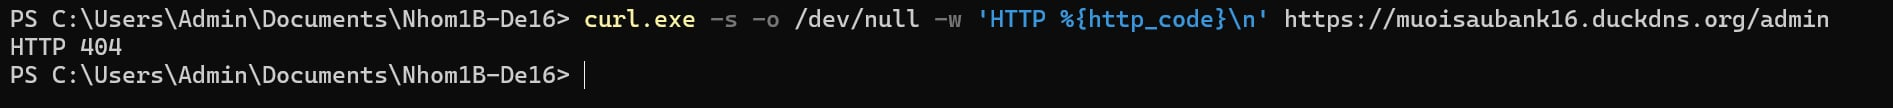
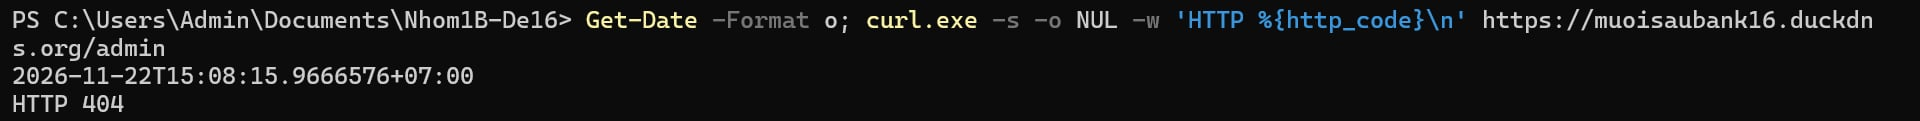
SV2: sua dau vao bang kiem thu va chup lai anh KT2

Changed region(s): [[0.0, 0.0556, 0.9974, 0.2778], [0.0, 0.5278, 0.3117, 0.9444], [0.0, 0.3333, 0.0935, 0.5278]]

diff --git a/kiem-thu/BANG-KIEM-THU-SV2.md b/kiem-thu/BANG-KIEM-THU-SV2.md
@@ -2,13 +2,14 @@
 
 | Đầu vào | Thao tác thực hiện | Kết quả mong đợi | Kết quả thực tế | Đánh giá (Đạt / Chưa đạt) | Bằng chứng xác thực |
 | :--- | :--- | :--- | :--- | :--- | :--- |
-| ps0 | Ping/kết nối tới ps2 | Timed out | Connection timed out | Đạt | kiem-thu/bang-chung/KT2/KT2-vps0-chan-vps2.png |
-| ps0 | Ping/kết nối tới ps3 | Timed out | Timed out | Đạt | kiem-thu/bang-chung/KT2/KT2-vps0-chan-vps3.png |
-| ps1 | Ping/kết nối tới ps3 | Timed out | Timed out | Đạt | kiem-thu/bang-chung/KT2/KT2-vps1-chan-vps3.png |
-| ps2 | Kết nối cơ sở dữ liệu ps3 | Succeeded | Connection succeeded | Đạt | kiem-thu/bang-chung/KT2/KT2-vps2-vao-vps3.png |
-| Trình duyệt | Truy cập trang chủ HTTPS | HTTP 200 | HTTP 200 | Đạt | kiem-thu/bang-chung/KT2/KT2-https-home.png |
-| Trình duyệt | Truy cập đường dẫn /admin | HTTP 404 | HTTP 404 | Đạt | kiem-thu/bang-chung/KT2/KT2-admin-404.png |
-| Trình duyệt | Gửi payload SQL Injection | HTTP 403 | HTTP 403 (WAF Blocked) | Đạt | kiem-thu/bang-chung/KT2/KT2-waf-sqli.png |
-| Trình duyệt | Đăng nhập sai thông tin | HTTP 401 | HTTP 401 (Unauthorized) | Đạt | kiem-thu/bang-chung/KT2/KT2-login-401.png |
-| Trình duyệt | Gửi request liên tục (Rate Limit) | HTTP 429 | HTTP 429 (Too Many Requests) | Đạt | kiem-thu/bang-chung/KT2/KT2-ratelimit-429.png |
-| Trình duyệt | Kiểm tra giao diện & ổ khóa HTTPS | Hiển thị OK | Hiển thị OK, có ổ khóa | Đạt | kiem-thu/bang-chung/KT2/KT2-browser-ui.png |
+| vps0 | curl -m 3 http://10.10.10.20:8080/api/health (vps0 gọi thẳng API vps2) | Timed out | Connection timed out after 3001 milliseconds | Đạt | kiem-thu/bang-chung/KT2/KT2-vps0-chan-vps2.png |
+| vps0 | nc -zv -w 3 10.10.10.30 5432 (vps0 tới CSDL vps3) | Timed out | Timed out | Đạt | kiem-thu/bang-chung/KT2/KT2-vps0-chan-vps3.png |
+| vps1 | nc -zv -w 3 10.10.10.30 5432 (vps1 tới CSDL vps3) | Timed out | Timed out | Đạt | kiem-thu/bang-chung/KT2/KT2-vps1-chan-vps3.png |
+| vps2 | nc -zv -w 3 10.10.10.30 5432 (vps2 tới CSDL vps3, đối chứng) | Succeeded | Connection succeeded | Đạt | kiem-thu/bang-chung/KT2/KT2-vps2-vao-vps3.png |
+| Máy cá nhân, curl.exe | Truy cập trang chủ https://muoisaubank16.duckdns.org/ | HTTP 200 | HTTP 200 | Đạt | kiem-thu/bang-chung/KT2/KT2-https-home.png |
+| Máy cá nhân, curl.exe | Truy cập /admin khi chưa đăng nhập | HTTP 404 | HTTP 404 | Đạt | kiem-thu/bang-chung/KT2/KT2-admin-404.png |
+| Máy cá nhân, curl.exe | Gửi UNION SELECT trên URL /api/accounts | HTTP 403 | HTTP 403 (WAF Blocked) | Đạt | kiem-thu/bang-chung/KT2/KT2-waf-sqli.png |
+| Máy cá nhân, curl.exe | Đăng nhập user1 sai mật khẩu qua /api/login | HTTP 401 | HTTP 401 (Unauthorized) | Đạt | kiem-thu/bang-chung/KT2/KT2-login-401.png |
+| vps4, vòng lặp curl tới WAF vps1 | Gửi 8 lần đăng nhập sai liên tiếp, X-Real-IP 203.0.113.16 | Lần 1-4 HTTP 401, từ lần 5 HTTP 429 | Lần 1-4 HTTP 401, lần 5-8 HTTP 429 | Đạt | kiem-thu/bang-chung/KT2/KT2-ratelimit-429.png |
+| Trình duyệt | Mở trang chủ, kiểm tra giao diện và ổ khóa HTTPS | Hiển thị OK | Hiển thị OK, có ổ khóa | Đạt | kiem-thu/bang-chung/KT2/KT2-browser-ui.png |
+
